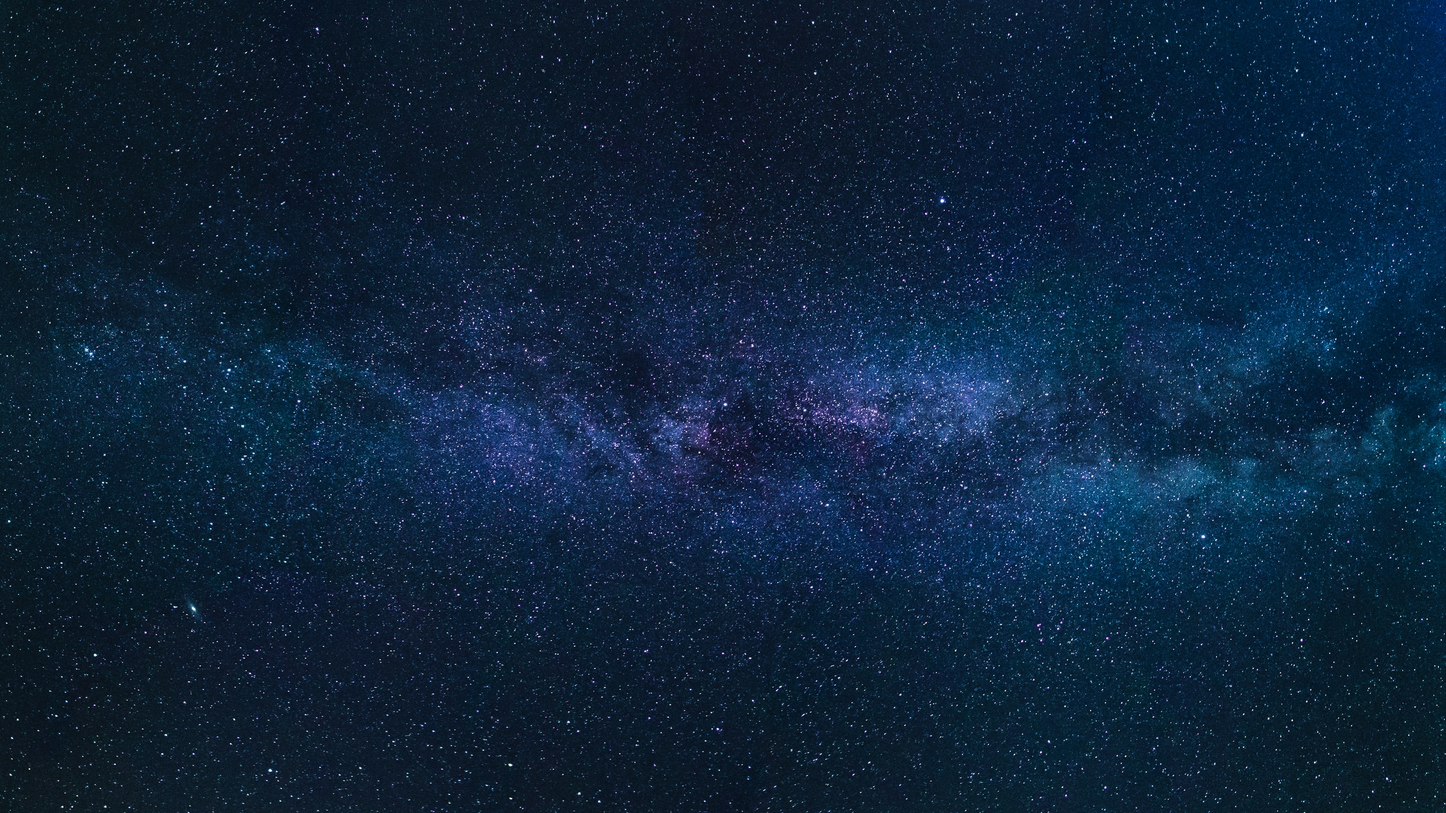
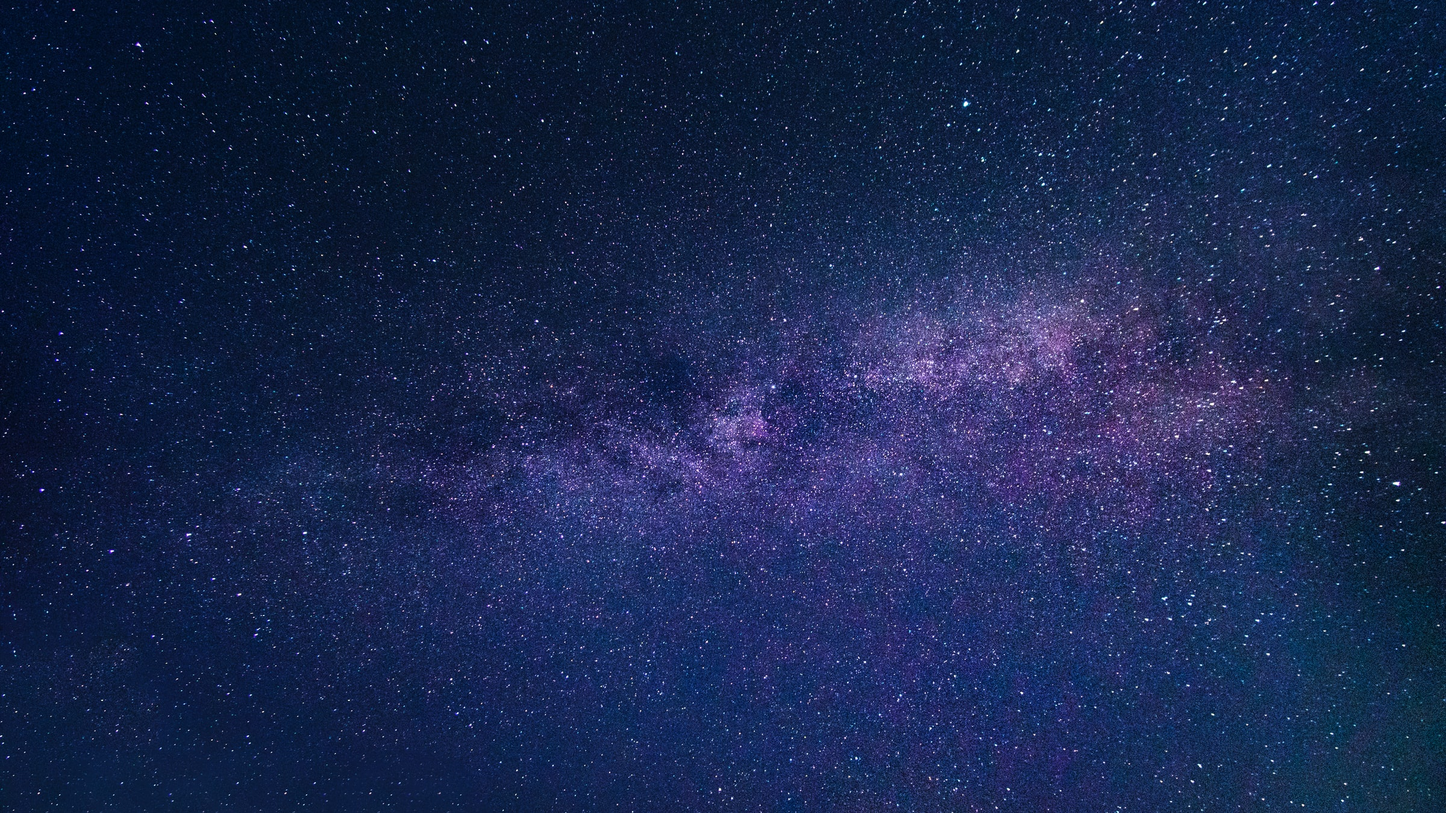
Update Avalonia. Remove background image. Update README.

diff --git a/Src/SapphireNotes/ViewModels/EditNoteViewModel.cs b/Src/SapphireNotes/ViewModels/EditNoteViewModel.cs
@@ -1,5 +1,4 @@
 using System;
-using System.ComponentModel;
 using ReactiveUI;
 using SapphireNotes.Contracts.Models;
 using SapphireNotes.Exceptions;
@@ -8,7 +7,7 @@ using SapphireNotes.ViewModels.UserControls;
 
 namespace SapphireNotes.ViewModels
 {
-    public class EditNoteViewModel : ViewModelBase, INotifyPropertyChanged
+    public class EditNoteViewModel : ViewModelBase
     {
         private readonly INotesService _notesService;
         private readonly Note EditNote;
@@ -41,7 +40,7 @@ namespace SapphireNotes.ViewModels
             selectedFontSizeIndex = Array.IndexOf(availableFontSizes, note.Metadata.FontSize);
         }
 
-        public void Create()
+        public bool Create()
         {
             string fontFamily = availableFonts[selectedFontIndex];
             int fontSize = availableFontSizes[selectedFontSizeIndex];
@@ -53,11 +52,13 @@ namespace SapphireNotes.ViewModels
             catch (ValidationException ex)
             {
                 alert.Show(ex.Message);
-                throw;
+                return false;
             }
+
+            return true;
         }
 
-        public void Update()
+        public bool Update()
         {
             EditNote.Metadata.FontFamily = availableFonts[selectedFontIndex];
             EditNote.Metadata.FontSize = availableFontSizes[selectedFontSizeIndex];
@@ -69,8 +70,10 @@ namespace SapphireNotes.ViewModels
             catch (ValidationException ex)
             {
                 alert.Show(ex.Message);
-                throw;
+                return false;
             }
+
+            return true;
         }
 
         private string title;
@@ -80,7 +83,7 @@ namespace SapphireNotes.ViewModels
             set => this.RaiseAndSetIfChanged(ref title, value);
         }
 
-        private AlertViewModel alert = new AlertViewModel(250);
+        private AlertViewModel alert = new(250);
         private AlertViewModel Alert
         {
             get => alert;

diff --git a/Src/SapphireNotes/ViewModels/MainWindowViewModel.cs b/Src/SapphireNotes/ViewModels/MainWindowViewModel.cs
@@ -1,7 +1,6 @@
 using System;
 using System.Collections.Generic;
 using System.Collections.ObjectModel;
-using System.ComponentModel;
 using System.Linq;
 using System.Reactive;
 using Avalonia.Threading;
@@ -13,11 +12,11 @@ using SapphireNotes.ViewModels.UserControls;
 
 namespace SapphireNotes.ViewModels
 {
-    public class MainWindowViewModel : ViewModelBase, INotifyPropertyChanged
+    public class MainWindowViewModel : ViewModelBase
     {
         private readonly IPreferencesService _preferencesService;
         private readonly INotesService _notesService;
-        private readonly DispatcherTimer autoSaveTimer = new DispatcherTimer();
+        private readonly DispatcherTimer autoSaveTimer = new();
 
         public MainWindowViewModel(IPreferencesService preferencesService, INotesService notesService)
         {
@@ -33,7 +32,7 @@ namespace SapphireNotes.ViewModels
 
             LoadNotes();
 
-            autoSaveTimer.Tick += new EventHandler(SaveDirtyNotes);
+            autoSaveTimer.Tick += SaveDirtyNotes;
             SetAutoSaveTimer();
 
             CtrlW = ReactiveCommand.Create(SelectPreviousNote);
@@ -210,7 +209,7 @@ namespace SapphireNotes.ViewModels
             }
         }
 
-        private ObservableCollection<NoteViewModel> Notes { get; set; } = new ObservableCollection<NoteViewModel>();
+        private ObservableCollection<NoteViewModel> Notes { get; } = new ObservableCollection<NoteViewModel>();
 
         private NoteViewModel selected;
         public NoteViewModel Selected

diff --git a/Test/UnitTests/Services/NotesServiceTests.cs b/Test/UnitTests/Services/NotesServiceTests.cs
@@ -1,3 +1,4 @@
+using System;
 using System.Collections.Generic;
 using Moq;
 using SapphireNotes;
@@ -11,8 +12,8 @@ namespace UnitTests.Services
 {
     public class NotesServiceTests
     {
-        private readonly Mock<INotesMetadataService> _notesMetadataServiceMock = new Mock<INotesMetadataService>();
-        private readonly Mock<INotesRepository> _notesRepositoryMock = new Mock<INotesRepository>();
+        private readonly Mock<INotesMetadataService> _notesMetadataServiceMock = new();
+        private readonly Mock<INotesRepository> _notesRepositoryMock = new();
         private readonly INotesService _sut;
 
         public NotesServiceTests()
@@ -224,7 +225,7 @@ namespace UnitTests.Services
         [Fact]
         public void GetFontThatAllNotesUseReturnsDefaultIfNoNotes()
         {
-            _notesMetadataServiceMock.Setup(x => x.GetDistinctFonts()).Returns(new string[0]);
+            _notesMetadataServiceMock.Setup(x => x.GetDistinctFonts()).Returns(Array.Empty<string>());
 
             string font = _sut.GetFontThatAllNotesUse();
 
@@ -255,7 +256,7 @@ namespace UnitTests.Services
         [Fact]
         public void GetFontSizeThatAllNotesUseReturnsDefaultIfNoNotes()
         {
-            _notesMetadataServiceMock.Setup(x => x.GetDistinctFontSizes()).Returns(new int[0]);
+            _notesMetadataServiceMock.Setup(x => x.GetDistinctFontSizes()).Returns(Array.Empty<int>());
 
             int? fontSize = _sut.GetFontSizeThatAllNotesUse();
 

diff --git a/Src/SapphireNotes/Utils/ThemeManager.cs b/Src/SapphireNotes/Utils/ThemeManager.cs
@@ -7,12 +7,12 @@ namespace SapphireNotes.Utils
 {
     public static class ThemeManager
     {
-        private static readonly Dictionary<string, ThemeResources> _themeResources = new Dictionary<string, ThemeResources>
+        private static readonly Dictionary<string, ThemeResources> _themeResources = new()
         {
             { "Dark", new ThemeResources(new string[] { "Accents", "Button", "MainWindow" }, 0) },
-            { "Cosmos", new ThemeResources(new string[] { "Accents", "Button", "MainWindow" }, 5) }
+            { "Cosmos", new ThemeResources(new string[] { "Accents", "Button", "MainWindow" }, 4) }
         };
-        private static readonly Random _random = new Random();
+        private static readonly Random _random = new();
 
         public static string[] Themes => _themeResources.Keys.ToArray();
 
@@ -51,7 +51,7 @@ namespace SapphireNotes.Utils
             Backgrounds = backgrounds;
         }
 
-        public string[] Styles { get; private set; }
-        public int Backgrounds { get; private set; }
+        public string[] Styles { get; }
+        public int Backgrounds { get; }
     }
 }

diff --git a/Src/SapphireNotes/Views/MainWindow.axaml.cs b/Src/SapphireNotes/Views/MainWindow.axaml.cs
@@ -15,16 +15,13 @@ namespace SapphireNotes.Views
     public class MainWindow : Window
     {
         private readonly INotesService _notesService;
-        private readonly List<Window> _windows = new List<Window>();
+        private readonly List<Window> _windows = new();
 
         public MainWindow()
         {
             InitializeComponent();
 
             _notesService = Locator.Current.GetService<INotesService>();
-
-            var escapeButton = this.FindControl<Button>("escapeButton");
-            escapeButton.Command = ReactiveCommand.Create(ExcapeButtonClicked);
 
             var newNoteMenuItem = this.FindControl<MenuItem>("newNoteMenuItem");
             newNoteMenuItem.Command = ReactiveCommand.Create(NewNoteMenuItemClicked);
@@ -91,11 +88,6 @@ namespace SapphireNotes.Views
         private void InitializeComponent()
         {
             AvaloniaXamlLoader.Load(this);
-        }
-
-        private void ExcapeButtonClicked()
-        {
-            Close();
         }
 
         private void NewNoteMenuItemClicked()

diff --git a/Src/SapphireNotes/ViewModels/ArchivedNotesViewModel.cs b/Src/SapphireNotes/ViewModels/ArchivedNotesViewModel.cs
@@ -1,6 +1,5 @@
 using System;
 using System.Collections.ObjectModel;
-using System.ComponentModel;
 using System.Linq;
 using System.Reactive;
 using DynamicData;
@@ -10,7 +9,7 @@ using SapphireNotes.Services;
 
 namespace SapphireNotes.ViewModels
 {
-    public class ArchivedNotesViewModel : ViewModelBase, INotifyPropertyChanged
+    public class ArchivedNotesViewModel : ViewModelBase
     {
         private readonly INotesService _notesService;
 
@@ -135,7 +134,7 @@ namespace SapphireNotes.ViewModels
             set => this.RaiseAndSetIfChanged(ref actionButtonsEnabled, value);
         }
 
-        private ObservableCollection<ArchivedNoteViewModel> ArchivedNotes { get; set; } = new ObservableCollection<ArchivedNoteViewModel>();
+        private ObservableCollection<ArchivedNoteViewModel> ArchivedNotes { get; } = new ObservableCollection<ArchivedNoteViewModel>();
 
         private ArchivedNoteViewModel selected;
         private ArchivedNoteViewModel Selected

diff --git a/Src/SapphireNotes/Repositories/FileSystemRepository.cs b/Src/SapphireNotes/Repositories/FileSystemRepository.cs
@@ -108,7 +108,7 @@ namespace SapphireNotes.Repositories
         {
             if (!Directory.Exists(_preferencesService.Preferences.NotesDirectory))
             {
-                return new Note[0];
+                return Array.Empty<Note>();
             }
 
             string[] textFiles = Directory.GetFiles(_preferencesService.Preferences.NotesDirectory, "*" + Extension);
@@ -141,13 +141,13 @@ namespace SapphireNotes.Repositories
             string archiveDirectory = GetArchiveDirectory();
             if (!Directory.Exists(archiveDirectory))
             {
-                return new Note[0];
+                return Array.Empty<Note>();
             }
 
             string[] textFiles = Directory.GetFiles(archiveDirectory, "*" + Extension);
             if (textFiles.Length == 0)
             {
-                return new Note[0];
+                return Array.Empty<Note>();
             }
 
             var notes = new List<Note>(textFiles.Length);

diff --git a/Src/SapphireNotes/Views/EditNoteWindow.axaml.cs b/Src/SapphireNotes/Views/EditNoteWindow.axaml.cs
@@ -1,7 +1,6 @@
 using Avalonia.Controls;
 using Avalonia.Markup.Xaml;
 using ReactiveUI;
-using SapphireNotes.Exceptions;
 using SapphireNotes.ViewModels;
 
 namespace SapphireNotes.Views
@@ -23,22 +22,19 @@ namespace SapphireNotes.Views
         {
             var vm = (EditNoteViewModel)DataContext;
 
-            try
+            bool success;
+            if (vm.IsNew)
             {
-                if (vm.IsNew)
-                {
-                    vm.Create();
-                }
-                else
-                {
-                    vm.Update();
-                }
-
-                Close();
+                success = vm.Create();
             }
-            catch (ValidationException)
+            else
             {
-                // Do nothing. Handled in view model.
+                success = vm.Update();
+            }
+
+            if (success)
+            {
+                Close();
             }
         }
 

diff --git a/Src/SapphireNotes/ViewModels/PreferencesViewModel.cs b/Src/SapphireNotes/ViewModels/PreferencesViewModel.cs
@@ -1,5 +1,4 @@
 using System;
-using System.ComponentModel;
 using System.Linq;
 using ReactiveUI;
 using SapphireNotes.Exceptions;
@@ -9,7 +8,7 @@ using SapphireNotes.ViewModels.UserControls;
 
 namespace SapphireNotes.ViewModels
 {
-    public class PreferencesViewModel : ViewModelBase, INotifyPropertyChanged
+    public class PreferencesViewModel : ViewModelBase
     {
         private readonly IPreferencesService _preferencesService;
         private readonly INotesService _notesService;
@@ -113,7 +112,7 @@ namespace SapphireNotes.ViewModels
             }
         }
 
-        private AlertViewModel alert = new AlertViewModel(450);
+        private AlertViewModel alert = new(450);
         private AlertViewModel Alert
         {
             get => alert;

diff --git a/Src/SapphireNotes/Services/NotesService.cs b/Src/SapphireNotes/Services/NotesService.cs
@@ -103,7 +103,7 @@ namespace SapphireNotes.Services
             }
 
             var fileName = newName + ".txt";
-            if (originalName.ToLowerInvariant() != newName.ToLowerInvariant() && _notesRepository.Exists(newName))
+            if (!string.Equals(originalName, newName, StringComparison.InvariantCultureIgnoreCase) && _notesRepository.Exists(newName))
             {
                 throw new ValidationException("A note with the same name already exists.");
             }
@@ -172,7 +172,7 @@ namespace SapphireNotes.Services
             else
             {
                 _notesRepository.Delete(note.Name);
-            }            
+            }
 
             _notesMetadataService.Remove(note.Name);
             _notesMetadataService.Save();

diff --git a/Src/SapphireNotes/ViewModels/DeleteNoteViewModel.cs b/Src/SapphireNotes/ViewModels/DeleteNoteViewModel.cs
@@ -1,11 +1,10 @@
-using System.ComponentModel;
-using ReactiveUI;
+using ReactiveUI;
 using SapphireNotes.Contracts.Models;
 using SapphireNotes.Services;
 
 namespace SapphireNotes.ViewModels
 {
-    public class DeleteNoteViewModel : ViewModelBase, INotifyPropertyChanged
+    public class DeleteNoteViewModel : ViewModelBase
     {
         private readonly INotesService _notesService;
         private readonly Note Note;

diff --git a/Src/SapphireNotes/ViewModels/ArchivedNoteViewModel.cs b/Src/SapphireNotes/ViewModels/ArchivedNoteViewModel.cs
@@ -1,5 +1,4 @@
 using System;
-using System.ComponentModel;
 using System.Reactive;
 using Avalonia.Media;
 using ReactiveUI;
@@ -8,7 +7,7 @@ using SapphireNotes.Utils;
 
 namespace SapphireNotes.ViewModels
 {
-    public class ArchivedNoteViewModel : ViewModelBase, INotifyPropertyChanged
+    public class ArchivedNoteViewModel : ViewModelBase
     {
         public ArchivedNoteViewModel(Note note)
         {
